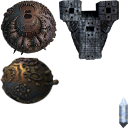
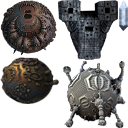
Added an artifact that attracts creatures, item max health can be changed & items can be made indestructible

Changed region(s): [[0.4375, 0.0, 1.0, 1.0]]

diff --git a/Barotrauma/BarotraumaShared/Source/Items/Item.cs b/Barotrauma/BarotraumaShared/Source/Items/Item.cs
@@ -178,10 +178,11 @@ namespace Barotrauma
             {
                 if (GameMain.Client != null) return;
                 if (!MathUtils.IsValid(value)) return;
+                if (prefab.Indestructible) return;
 
                 float prev = condition;
-                condition = MathHelper.Clamp(value, 0.0f, 100.0f); 
-                if (condition == 0.0f && prev>0.0f)
+                condition = MathHelper.Clamp(value, 0.0f, prefab.Health);
+                if (condition == 0.0f && prev > 0.0f)
                 {
                     ApplyStatusEffects(ActionType.OnBroken, 1.0f, null);
                     foreach (FixRequirement req in FixRequirements)
@@ -192,7 +193,7 @@ namespace Barotrauma
 
                 if (GameMain.Server != null && lastSentCondition != condition)
                 {
-                    if (Math.Abs(lastSentCondition - condition) > 1.0f || condition == 0.0f || condition == 100.0f)
+                    if (Math.Abs(lastSentCondition - condition) > 1.0f || condition == 0.0f || condition == prefab.Health)
                     {
                         GameMain.Server.CreateEntityEvent(this, new object[] { NetEntityEvent.Type.Status });
                         lastSentCondition = condition;
@@ -205,7 +206,7 @@ namespace Barotrauma
         {
             get { return condition; }
         }
-
+        
         [Editable, HasDefaultValue("", true)]
         public string Tags
         {
@@ -340,9 +341,9 @@ namespace Barotrauma
             rect = newRect;
             
             if (submarine==null || !submarine.Loading) FindHull();
-
-            condition = 100.0f;
-            lastSentCondition = 100.0f;
+            
+            condition = prefab.Health;
+            lastSentCondition = prefab.Health;
 
             XElement element = prefab.ConfigElement;
             if (element == null) return;
@@ -740,6 +741,8 @@ namespace Barotrauma
 
         public AttackResult AddDamage(IDamageable attacker, Vector2 worldPosition, Attack attack, float deltaTime, bool playSound = true)
         {
+            if (prefab.Indestructible) return new AttackResult();
+
             float damageAmount = attack.GetStructureDamage(deltaTime);
             Condition -= damageAmount;
 
@@ -1321,9 +1324,9 @@ namespace Barotrauma
                     ownInventory.ServerWrite(msg, c, extraData);
                     break;
                 case NetEntityEvent.Type.Status:
-                    //clamp above 0.5f if condition > 0.0f
+                    //clamp to (MaxHealth / 255.0f) if condition > 0.0f
                     //to prevent condition from being rounded down to 0.0 even if the item is not broken
-                    msg.WriteRangedSingle(condition > 0.0f ? Math.Max(condition, 0.5f) : 0.0f, 0.0f, 100.0f, 8);
+                    msg.WriteRangedSingle(condition > 0.0f ? Math.Max(condition, prefab.Health / 255.0f) : 0.0f, 0.0f, prefab.Health, 8);
 
                     if (condition <= 0.0f && FixRequirements.Count > 0)
                     {
@@ -1370,7 +1373,7 @@ namespace Barotrauma
                     FixRequirements[requirementIndex].Fixed = true;
                     if (condition <= 0.0f && FixRequirements.All(f => f.Fixed))
                     {
-                        Condition = 100.0f;
+                        Condition = prefab.Health;
                     }
 
                     GameMain.Server.CreateEntityEvent(this, new object[] { NetEntityEvent.Type.Status });

diff --git a/Barotrauma/BarotraumaClient/Source/Items/Inventory.cs b/Barotrauma/BarotraumaClient/Source/Items/Inventory.cs
@@ -167,21 +167,21 @@ namespace Barotrauma
 
             if (item != null && drawItem)
             {
-                if (item.Condition < 100.0f)
+                if (item.Condition < item.Prefab.Health)
                 {
                     GUI.DrawRectangle(spriteBatch, new Rectangle(rect.X, rect.Bottom - 8, rect.Width, 8), Color.Black * 0.8f, true);
                     GUI.DrawRectangle(spriteBatch,
-                        new Rectangle(rect.X, rect.Bottom - 8, (int)(rect.Width * item.Condition / 100.0f), 8),
+                        new Rectangle(rect.X, rect.Bottom - 8, (int)(rect.Width * item.Condition / item.Prefab.Health), 8),
                         Color.Lerp(Color.Red, Color.Green, item.Condition / 100.0f) * 0.8f, true);
                 }
 
                 var containedItems = item.ContainedItems;
-                if (containedItems != null && containedItems.Length == 1 && containedItems[0].Condition < 100.0f)
+                if (containedItems != null && containedItems.Length == 1 && containedItems[0].Condition < item.Prefab.Health)
                 {
                     GUI.DrawRectangle(spriteBatch, new Rectangle(rect.X, rect.Y, rect.Width, 8), Color.Black * 0.8f, true);
                     GUI.DrawRectangle(spriteBatch,
                         new Rectangle(rect.X, rect.Y, (int)(rect.Width * containedItems[0].Condition / 100.0f), 8),
-                        Color.Lerp(Color.Red, Color.Green, containedItems[0].Condition / 100.0f) * 0.8f, true);
+                        Color.Lerp(Color.Red, Color.Green, containedItems[0].Condition / item.Prefab.Health) * 0.8f, true);
                 }
             }
 

diff --git a/Barotrauma/BarotraumaShared/Source/Items/ItemPrefab.cs b/Barotrauma/BarotraumaShared/Source/Items/ItemPrefab.cs
@@ -104,6 +104,17 @@ namespace Barotrauma
             get { return offsetOnSelected; }
         }
 
+        public float Health
+        {
+            get;
+            private set;
+        }
+
+        public bool Indestructible
+        {
+            get;
+            private set;
+        }
 
         public float ImpactTolerance
         {
@@ -242,8 +253,10 @@ namespace Barotrauma
 
             CanUseOnSelf        = ToolBox.GetAttributeBool(element, "canuseonself", false);
             
-            FireProof           = ToolBox.GetAttributeBool(element, "fireproof", false);
 
+            Health              = ToolBox.GetAttributeFloat(element, "health", 100.0f);
+            Indestructible      = ToolBox.GetAttributeBool(element, "indestructible", false);
+            FireProof           = ToolBox.GetAttributeBool(element, "fireproof", false);
             ImpactTolerance     = ToolBox.GetAttributeFloat(element, "impacttolerance", 0.0f);
 
             string aliases = ToolBox.GetAttributeString(element, "aliases", "");

diff --git a/Barotrauma/BarotraumaClient/Source/Items/Item.cs b/Barotrauma/BarotraumaClient/Source/Items/Item.cs
@@ -1,15 +1,12 @@
 using Barotrauma.Items.Components;
 using Barotrauma.Networking;
 using FarseerPhysics;
-using FarseerPhysics.Dynamics;
-using FarseerPhysics.Dynamics.Contacts;
 using Lidgren.Network;
 using Microsoft.Xna.Framework;
 using Microsoft.Xna.Framework.Graphics;
 using Microsoft.Xna.Framework.Input;
 using System;
 using System.Collections.Generic;
-using System.Collections.ObjectModel;
 using System.ComponentModel;
 using System.Linq;
 using System.Xml.Linq;
@@ -455,7 +452,7 @@ namespace Barotrauma
                     ownInventory.ClientRead(type, msg, sendingTime);
                     break;
                 case NetEntityEvent.Type.Status:
-                    condition = msg.ReadRangedSingle(0.0f, 100.0f, 8);
+                    condition = msg.ReadRangedSingle(0.0f, prefab.Health, 8);
 
                     if (FixRequirements.Count > 0)
                     {

diff --git a/Barotrauma/BarotraumaShared/Source/Items/Components/Machines/Deconstructor.cs b/Barotrauma/BarotraumaShared/Source/Items/Components/Machines/Deconstructor.cs
@@ -58,7 +58,7 @@ namespace Barotrauma.Items.Components
 
                 foreach (DeconstructItem deconstructProduct in targetItem.Prefab.DeconstructItems)
                 {
-                    if (deconstructProduct.RequireFullCondition && targetItem.Condition < 100.0f) continue;
+                    if (deconstructProduct.RequireFullCondition && targetItem.Condition < targetItem.Prefab.Health) continue;
 
                     var itemPrefab = MapEntityPrefab.list.FirstOrDefault(ip => ip.Name.ToLowerInvariant() == deconstructProduct.ItemPrefabName.ToLowerInvariant()) as ItemPrefab;
                     if (itemPrefab == null)

diff --git a/Barotrauma/BarotraumaClient/Source/Items/Components/Door.cs b/Barotrauma/BarotraumaClient/Source/Items/Components/Door.cs
@@ -93,7 +93,7 @@ namespace Barotrauma.Items.Components
         public void Draw(SpriteBatch spriteBatch, bool editing)
         {
             Color color = (item.IsSelected) ? Color.Green : Color.White;
-            color = color * (item.Condition / 100.0f);
+            color = color * (item.Condition / item.Prefab.Health);
             color.A = 255;
 
             //prefab.sprite.Draw(spriteBatch, new Vector2(rect.X, -rect.Y), new Vector2(rect.Width, rect.Height), color);

diff --git a/Barotrauma/BarotraumaShared/Source/Physics/PhysicsBody.cs b/Barotrauma/BarotraumaShared/Source/Physics/PhysicsBody.cs
@@ -290,7 +290,7 @@ namespace Barotrauma
             body.CollidesWith = Physics.CollisionWall | Physics.CollisionLevel;
 
             body.Friction = ToolBox.GetAttributeFloat(element, "friction", 0.3f);
-            body.Restitution = 0.05f;
+            body.Restitution = ToolBox.GetAttributeFloat(element, "restitution", 0.05f);
             
             body.BodyType = BodyType.Dynamic;
 

diff --git a/Barotrauma/BarotraumaShared/Source/DebugConsole.cs b/Barotrauma/BarotraumaShared/Source/DebugConsole.cs
@@ -502,7 +502,7 @@ namespace Barotrauma
                 case "fixitems":
                     foreach (Item it in Item.ItemList)
                     {
-                        it.Condition = 100.0f;
+                        it.Condition = it.Prefab.Health;
                     }
                     break;
                 case "fixhull":

diff --git a/Barotrauma/BarotraumaShared/Source/Networking/RespawnManager.cs b/Barotrauma/BarotraumaShared/Source/Networking/RespawnManager.cs
@@ -330,7 +330,7 @@ namespace Barotrauma.Networking
                     continue;
                 }
 
-                item.Condition = 100.0f;
+                item.Condition = item.Prefab.Health;
 
                 var powerContainer = item.GetComponent<PowerContainer>();
                 if (powerContainer != null)

diff --git a/Barotrauma/BarotraumaClient/Source/Items/FixRequirement.cs b/Barotrauma/BarotraumaClient/Source/Items/FixRequirement.cs
@@ -156,7 +156,7 @@ namespace Barotrauma
             }
             if (!unfixedFound)
             {
-                item.Condition = 100.0f;
+                item.Condition = item.Prefab.Health;
                 frame = null;
             }
         }

diff --git a/Barotrauma/BarotraumaShared/Source/Events/RepairTask.cs b/Barotrauma/BarotraumaShared/Source/Events/RepairTask.cs
@@ -14,7 +14,7 @@
 
         public override void Update(float deltaTime)
         {
-            if (item.Condition > 50.0f) Finished();
+            if (item.Condition > item.Prefab.Health * 0.5f) Finished();
         }
     }
 }
